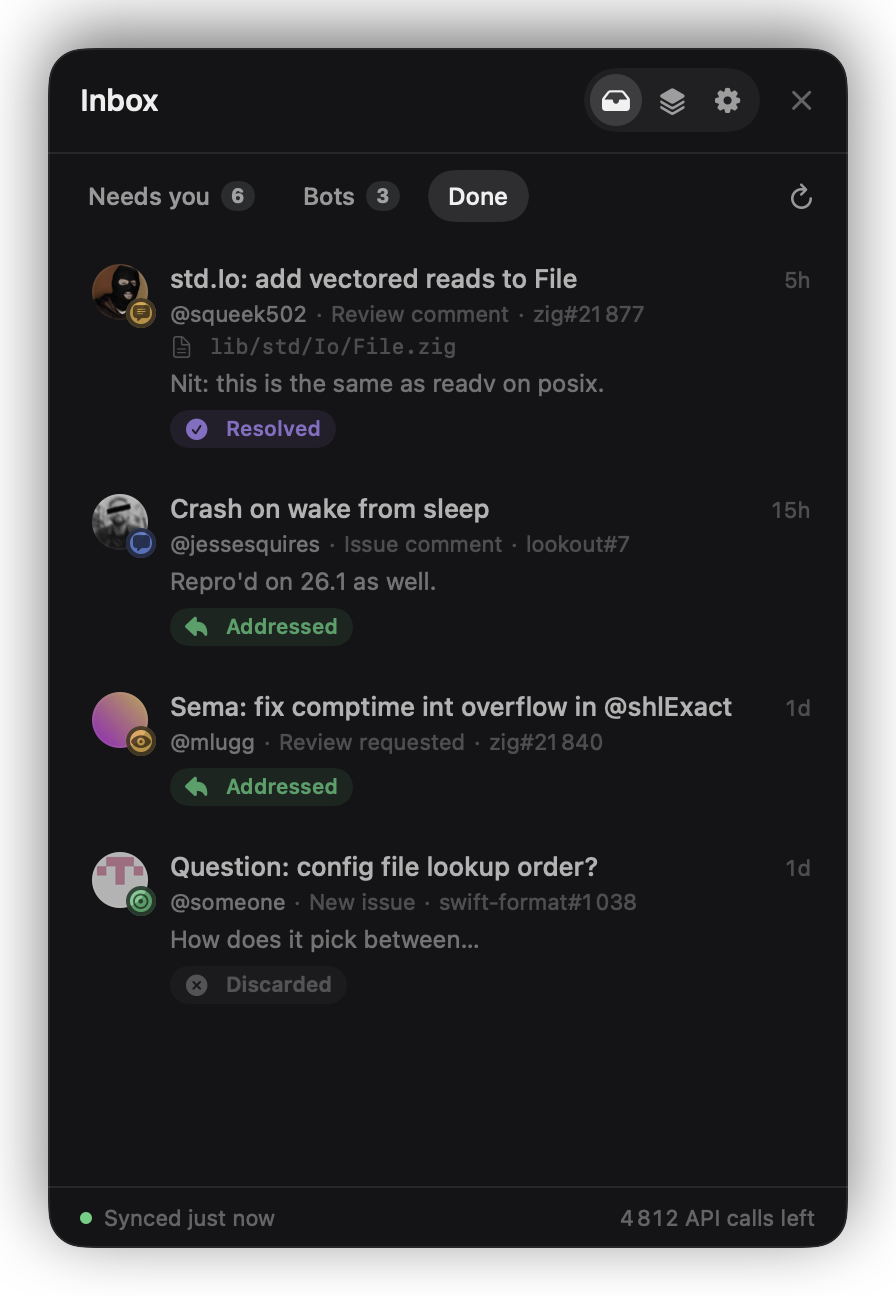
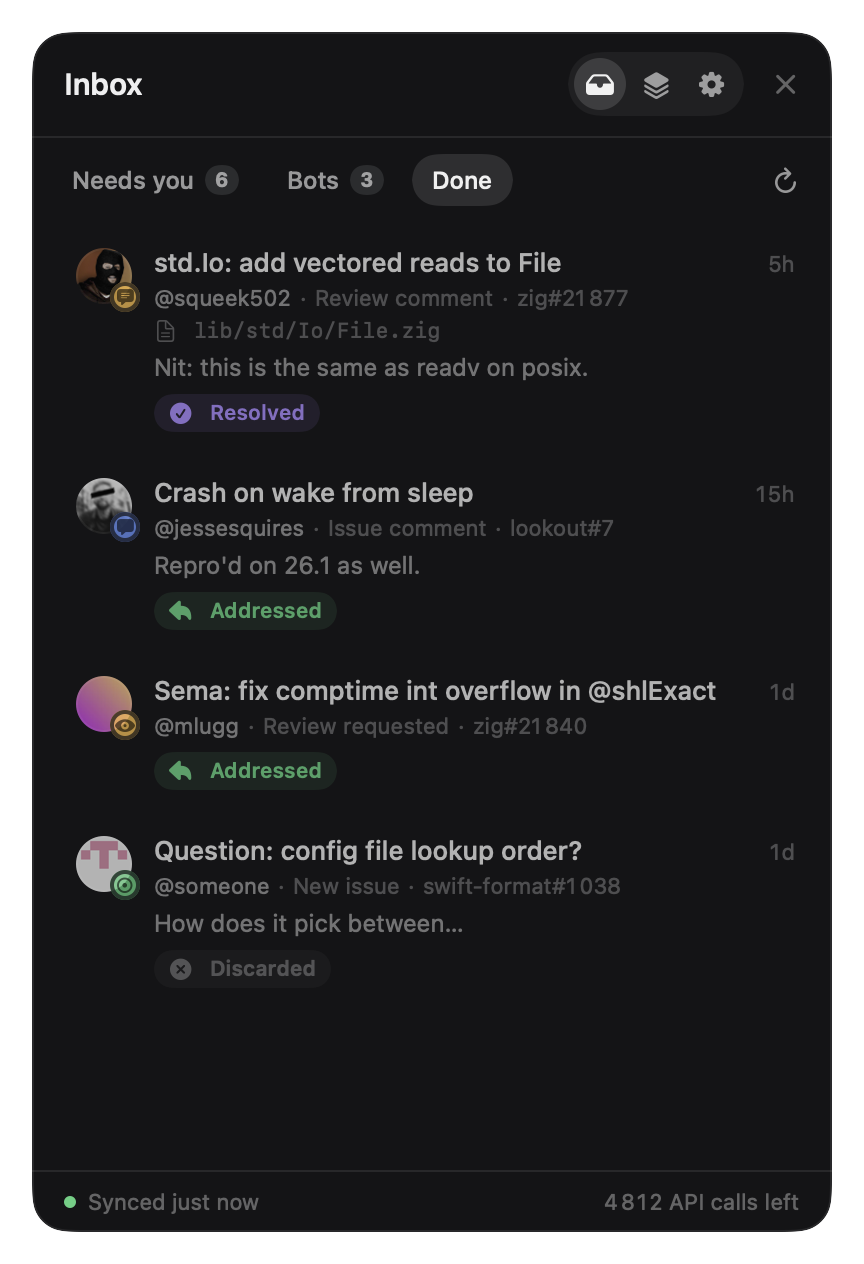
Drag the pill from anywhere; drop clipped shadows (native shadow on the panel)

diff --git a/Sources/Lookout/Windows.swift b/Sources/Lookout/Windows.swift
@@ -17,7 +17,7 @@ final class UIState {
     }
 }
 
-final class FloatingPanel: NSPanel {
+class FloatingPanel: NSPanel {
     var allowsKey = false
     var onCancel: (() -> Void)?
 
@@ -60,15 +60,54 @@ final class SizingHostingView<Content: View>: NSHostingView<Content> {
 
 struct PillActions {
     let toggle: (PanelTab) -> Void
-    let dragChanged: () -> Void
-    let dragEnded: () -> Void
+}
+
+/// The whole pill is draggable. A mouse-down is held back until we know whether it's a click (forwarded to
+/// SwiftUI on mouse-up) or a drag (moves the window; SwiftUI never sees it, so no button fires).
+final class PillPanel: FloatingPanel {
+    var onDragChanged: ((NSPoint) -> Void)?
+    var onDragEnded: ((NSPoint) -> Void)?
+    private var pendingDown: NSEvent?
+    private var downAt: NSPoint = .zero
+    private var dragging = false
+
+    override func sendEvent(_ event: NSEvent) {
+        // Screen coordinates from the event itself (stable even though the window moves under the cursor).
+        let p = convertPoint(toScreen: event.locationInWindow)
+        switch event.type {
+        case .leftMouseDown:
+            pendingDown = event
+            downAt = p
+            dragging = false
+        case .leftMouseDragged where pendingDown != nil || dragging:
+            if !dragging, hypot(p.x - downAt.x, p.y - downAt.y) > 3 {
+                dragging = true
+                NSCursor.closedHand.push()
+                onDragChanged?(downAt)
+            }
+            if dragging { onDragChanged?(p) }
+        case .leftMouseUp where dragging:
+            dragging = false
+            pendingDown = nil
+            NSCursor.pop()
+            onDragEnded?(p)
+        case .leftMouseUp:
+            if let down = pendingDown {
+                pendingDown = nil
+                super.sendEvent(down)
+            }
+            super.sendEvent(event)
+        default:
+            super.sendEvent(event)
+        }
+    }
 }
 
 @MainActor
 final class UIController {
     let store: Store
     let ui = UIState()
-    static let panelPadding: CGFloat = 24
+    static let panelPadding: CGFloat = 0
     static let panelContent = NSSize(width: 400, height: 600)
 
     private var pill: FloatingPanel!
@@ -81,11 +120,12 @@ final class UIController {
     init(store: Store) {
         self.store = store
         let actions = PillActions(
-            toggle: { [weak self] tab in self?.toggle(tab) },
-            dragChanged: { [weak self] in self?.dragChanged() },
-            dragEnded: { [weak self] in self?.dragEnded() })
+            toggle: { [weak self] tab in self?.toggle(tab) })
 
-        pill = FloatingPanel(size: NSSize(width: 60, height: 200))
+        let pillPanel = PillPanel(size: NSSize(width: 60, height: 200))
+        pillPanel.onDragChanged = { [weak self] point in self?.dragChanged(to: point) }
+        pillPanel.onDragEnded = { [weak self] point in self?.dragEnded(at: point) }
+        pill = pillPanel
         pillHost = SizingHostingView(rootView: PillView(store: store, ui: ui, actions: actions))
         pillHost.onSizeChange = { [weak self] _ in self?.layoutPill() }
         pill.contentView = pillHost
@@ -95,6 +135,7 @@ final class UIController {
         let pad = Self.panelPadding * 2
         panel = FloatingPanel(size: NSSize(width: Self.panelContent.width + pad, height: Self.panelContent.height + pad))
         panel.allowsKey = true
+        panel.hasShadow = true
         panel.contentView = NSHostingView(rootView: PanelView(store: store, ui: ui, close: { [weak self] in self?.hidePanel() }))
         panel.onCancel = { [weak self] in self?.hidePanel() }
 
@@ -127,8 +168,7 @@ final class UIController {
         if ui.isOpen { positionPanel() }
     }
 
-    private func dragChanged() {
-        let mouse = NSEvent.mouseLocation
+    private func dragChanged(to mouse: NSPoint) {
         if dragStart == nil {
             dragStart = (mouse, pill.frame.origin)
             hidePanel()
@@ -137,9 +177,8 @@ final class UIController {
         pill.setFrameOrigin(NSPoint(x: start.origin.x + mouse.x - start.mouse.x, y: start.origin.y + mouse.y - start.mouse.y))
     }
 
-    private func dragEnded() {
+    private func dragEnded(at mouse: NSPoint) {
         dragStart = nil
-        let mouse = NSEvent.mouseLocation
         screen = NSScreen.screens.first { NSMouseInRect(mouse, $0.frame, false) } ?? screen
         let vf = screen.visibleFrame
         ui.onLeft = pill.frame.midX < vf.midX
@@ -179,6 +218,7 @@ final class UIController {
         if !ui.isOpen {
             panel.alphaValue = 0
             panel.makeKeyAndOrderFront(nil)
+            DispatchQueue.main.async { self.panel.invalidateShadow() }
             NSAnimationContext.runAnimationGroup { ctx in
                 ctx.duration = 0.16
                 panel.animator().alphaValue = 1

diff --git a/Tests/LookoutTests/PillDragTests.swift b/Tests/LookoutTests/PillDragTests.swift
@@ -1,0 +1,36 @@
+import AppKit
+import Testing
+@testable import Lookout
+
+@MainActor
+@Suite struct PillDrag {
+    private func event(_ type: NSEvent.EventType, _ x: CGFloat, _ y: CGFloat, in window: NSWindow) -> NSEvent {
+        NSEvent.mouseEvent(with: type, location: NSPoint(x: x, y: y), modifierFlags: [], timestamp: 0,
+                           windowNumber: window.windowNumber, context: nil, eventNumber: 0, clickCount: 1, pressure: 1)!
+    }
+
+    private func panel() -> (PillPanel, () -> [String]) {
+        let panel = PillPanel(size: NSSize(width: 44, height: 120))
+        panel.setFrameOrigin(NSPoint(x: 500, y: 500))
+        var log: [String] = []
+        panel.onDragChanged = { p in log.append("changed \(Int(p.x)),\(Int(p.y))") }
+        panel.onDragEnded = { p in log.append("ended \(Int(p.x)),\(Int(p.y))") }
+        return (panel, { log })
+    }
+
+    @Test func dragAnywhereMovesPill() {
+        let (panel, log) = panel()
+        panel.sendEvent(event(.leftMouseDown, 20, 60, in: panel))
+        panel.sendEvent(event(.leftMouseDragged, 20, 80, in: panel))
+        panel.sendEvent(event(.leftMouseUp, 20, 90, in: panel))
+        #expect(log() == ["changed 520,560", "changed 520,580", "ended 520,590"])
+    }
+
+    @Test func clickIsNotADrag() {
+        let (panel, log) = panel()
+        panel.sendEvent(event(.leftMouseDown, 20, 60, in: panel))
+        panel.sendEvent(event(.leftMouseDragged, 21, 61, in: panel))  // jitter under the threshold
+        panel.sendEvent(event(.leftMouseUp, 21, 61, in: panel))
+        #expect(log().isEmpty)
+    }
+}

diff --git a/Sources/Lookout/PillView.swift b/Sources/Lookout/PillView.swift
@@ -9,7 +9,6 @@ struct PillView: View {
 
     var body: some View {
         VStack(spacing: 6) {
-            grip
             group {
                 inboxButton
             }
@@ -26,7 +25,7 @@ struct PillView: View {
                 }
             }
         }
-        .padding(10)
+        .padding(2)
         .fixedSize()
         .environment(\.colorScheme, .dark)
         .onChange(of: store.pulse) {
@@ -35,22 +34,6 @@ struct PillView: View {
         }
     }
 
-    private var grip: some View {
-        Capsule()
-            .fill(Color.white.opacity(0.28))
-            .frame(width: 16, height: 4)
-            .frame(width: 40, height: 12)
-            .contentShape(Rectangle())
-            .onHover { inside in
-                if inside { NSCursor.openHand.push() } else { NSCursor.pop() }
-            }
-            .gesture(
-                DragGesture(minimumDistance: 1, coordinateSpace: .global)
-                    .onChanged { _ in actions.dragChanged() }
-                    .onEnded { _ in actions.dragEnded() }
-            )
-            .help("Drag to move · snaps to the nearest edge")
-    }
 
     private var inboxButton: some View {
         let unread = store.unreadCount(.needsYou)
@@ -127,6 +110,5 @@ struct PillView: View {
             .padding(4)
             .background(Capsule(style: .continuous).fill(Theme.bg))
             .overlay(Capsule(style: .continuous).strokeBorder(Theme.stroke))
-            .shadow(color: .black.opacity(0.35), radius: 6, y: 2)
     }
 }

diff --git a/Sources/Lookout/Demo.swift b/Sources/Lookout/Demo.swift
@@ -123,7 +123,7 @@ enum Snapshot {
             Demo.populate(s, scenario)
             return s
         }
-        let actions = PillActions(toggle: { _ in }, dragChanged: {}, dragEnded: {})
+        let actions = PillActions(toggle: { _ in })
         for (label, scenario) in [("Needs you", Demo.Scenario.busy), ("Bots only", .botsOnly), ("All clear", .allClear),
                                   ("Snoozed", .snoozed), ("Sync error", .error)] {
             host(label, pill: true, PillView(store: store(scenario), ui: UIState(), actions: actions))
@@ -133,6 +133,7 @@ enum Snapshot {
             ui.tab = tab
             ui.filter = filter
             host(label, pill: false, PanelView(store: store(scenario), ui: ui, close: {})
+                .padding(16)
                 .environment(\.previewHover, Demo.hoverID)
                 .environment(\.previewSelection, Demo.selectedID))
         }

diff --git a/Sources/Lookout/SettingsView.swift b/Sources/Lookout/SettingsView.swift
@@ -140,7 +140,7 @@ struct SettingsView: View {
                     .background(RoundedRectangle(cornerRadius: 6).fill(Color.white.opacity(0.07)))
             }
             HStack {
-                hint("Drag the handle on top of the pill to move it to either edge.")
+                hint("Drag the pill to move it to either edge.")
                 Spacer()
                 Button("Quit Lookout") { NSApp.terminate(nil) }.controlSize(.small)
             }

diff --git a/Sources/Lookout/PanelView.swift b/Sources/Lookout/PanelView.swift
@@ -25,8 +25,6 @@ struct PanelView: View {
         .background(Theme.bg)
         .clipShape(RoundedRectangle(cornerRadius: 18, style: .continuous))
         .overlay(RoundedRectangle(cornerRadius: 18, style: .continuous).strokeBorder(Theme.stroke))
-        .shadow(color: .black.opacity(0.55), radius: 18, y: 8)
-        .padding(UIController.panelPadding)
         .environment(\.colorScheme, .dark)
         .tint(Theme.accent)
     }

diff --git a/README.md b/README.md
@@ -18,7 +18,7 @@ Requires macOS 14+. Auth comes from `gh auth token` (or a token pasted in Settin
 
 ## Using it
 
-- **Pill**: inbox (amber badge = unread items that need you, grey dot = only bots; a purple moon means snoozed, a red mark means a sync error), and CI counts: how many repos are passing (green), failing (red) and running (amber) on main; hover a row to see which. Settings are in the panel. Drag the top handle to move it; it snaps to the nearest edge. `⌃⌥Space` toggles the panel.
+- **Pill**: inbox (amber badge = unread items that need you, grey dot = only bots; a purple moon means snoozed, a red mark means a sync error), and CI counts: how many repos are passing (green), failing (red) and running (amber) on main; hover a row to see which. Settings are in the panel. Drag it from anywhere to move it; it snaps to the nearest edge. `⌃⌥Space` toggles the panel.
 - **Repositories**: add `owner/repo` (suggestions come from repos you own or are involved in) and toggle: issues, issue comments, PRs, PR comments, review comments, CI on the default branch.
 - **Which comments count**: by default only comments that are for you: on issues/PRs you opened, ones that @mention you, or ones posted after you joined the conversation (for review comments: in a review thread you posted in). Turn on **All comments** per repo to get every comment.
 - **Inbox**: *Needs you* / *Bots* / *Done*. Hover a row to mark it read, discard it, or open it. Keys: ↑↓ to move, Return to open, Space to toggle read, ⌫ to discard or restore, Esc to close.
